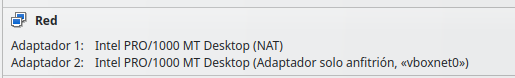
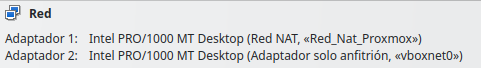
Nuevas modificaciones de la fase 3 implementadas y comienzo de la fase 4 (Se acaba el martes 24 de noviembre)

diff --git a/docs/03-instalacion-proxmox.md b/docs/03-instalacion-proxmox.md
@@ -1,21 +1,58 @@
 # 03-instalacion-proxmox
 
 ## Objetivo
-El objetivo de esta sesion ha sido instalar Proxmox en una maquina Virtual de VirtualBox configurando la Ram, CPU y espacio de disco correctamente y los adaptadores necesarios para la practica (Nat Y Solo anfitrion). Al instalarlo he tenido que configurar el fichero de interfaces para posteriormente conectarme via web a proxmox.
+### Fase 3. Instalación de Proxmox
+
+
+El objetivo de esta sesion ha sido instalar Proxmox en una maquina Virtual de VirtualBox configurando la Ram, CPU y espacio de disco correctamente y los adaptadores necesarios para la practica (Red Nat y Solo anfitrion). Al instalarlo he tenido que configurar el fichero de interfaces para posteriormente conectarme via web a proxmox.
+
+### Fase 4. Configuración base del nodo¶
+
+
+
+
 ## Procedimiento
-Paso 1 - Lo primero que he hecho ha sido crear la maquina virtual pve-selva con la iso de Proxmox, configurando 8 Gib de RAM, 2CPUs y un disco duro de 80 Gib. Una vez creada he activado la opcion Nested VT-x/AMD-V para permitir la virtualizacion anidada.
 
-Paso 2 - En este paso he configurado los dos adaptadores de red, el adaptador 1 es NAT para la salida a internet y el adaptador 2 he creado un adaptador de red solo anfitrion con la ip 192.168.56.1. Por ultimo los he activado en la maquina de Proxmox en Virtualbox
+### Fase 3. Instalación de Proxmox
 
-Paso 3 - Una vez hecho todo lo anterior, he iniciado la instalacion de Proxmox configurando el hostname, la direccion IP de gestion (En este momento ha sido la NAT para poder instalarlo, mas adelante lo cambio), la puerta de enlace y el servidor DNS.
+Paso 1 - Lo primero que he hecho ha sido crear la maquina virtual pve-selva con la iso de Proxmox, configurando 8 GB de RAM, 2CPUs y un disco duro de 80 Gib. Una vez creada he activado la opcion Nested VT-x/AMD-V para permitir la virtualizacion anidada, en paravirtualization interface lo tengo puesto en KVM y el controlador SATA conectado al disco lo he puesto de tipo virtio-scsi.
 
-Paso 4 - Una vez finalizada la instalacion he entrado en el fichero '/etc/network/interfaces' para configurar los bridges vmbr0 y vmbr1, enlazandolos con los adaptadores Nat (vmbr0) y solo anfitrion (vmbr1).
+Paso 2 - En este paso he configurado los dos adaptadores de red, el adaptador 1 es Red NAT (modo promiscuo y dhcp desactivado) para la salida a internet y el adaptador 2 he creado un adaptador de red solo anfitrion (modo promiscuo) con la ip 192.168.56.1. Por ultimo los he activado en la maquina de Proxmox en Virtualbox
+
+Paso 3 - Una vez hecho todo lo anterior, he iniciado la instalacion de Proxmox configurando el hostname, la direccion IP de gestion (En este momento ha sido la de Red NAT para poder instalarlo, mas adelante lo cambio), la puerta de enlace y el servidor DNS.
+
+Paso 4 - Una vez finalizada la instalacion he entrado en el fichero '/etc/network/interfaces' para configurar los bridges vmbr0 y vmbr1, enlazandolos con los adaptadores Red Nat (vmbr0) y solo anfitrion (vmbr1).
 
 Paso 5 - Al aplicar la configuracion anterior, lo ultimo que he hecho ha sido cambiar la IP de gestion a la 192.168.56.5 en el fichero /etc/hosts, ya que antes estaba puesta la ip 10.0.2.15 por la instalacion.
 
 Paso 6 - En este paso poniendo https://192.168.56.5:8006 en el navegador he entrado a mi panel de Proxmox.
 
+### Fase 4. Configuración base del nodo¶
+
+1. Revisar donde se guarda cada cosa
+
+En DataCenter > Storage podemos ver que tenemos local y local-lvm. 
+
+Local es de tipo directorio, este almacenamiento se utiliza para guardar imagenes de ISO de sistemas operativos, plantillas de contenedores y copias de seguridad de las maquinas virtuales.
+
+Local-lvm es de tipo LVM-thin, este almacenamiento se utiliza para almacenar los discos de las maquinas virtuales y almacenamiento de los contenedores.
+
+El espacio de local es de unos 30 GB, 4,3 GB utilizados y unos 24,8 GB disponibles y el espacio de local-lvm es de unos 31,4 GB, no tiene nada utilizado, por lo tanto ese es su espacio disponible.
+
+Son dos almacenamientos diferentes y cada uno sirve para guardar cosas distintas.
+
+Tambien he creado una carpeta que admita backup.
+
+He comprobado que tengo suficiente espacio en el disco de mi ordenador, ya que aunque en Proxmox nos diga que el disco (VDI) tiene 80GB no significa que pueda ocupar hasta esa cantidad si el equipo anfitrion no tiene ese espacio disponible en su disco duro fisico, si ocurre esto nuestro sistema pueda caer y es un riesgo muy importante.
+
+Tambien hay que tener en cuenta que si las copias de seguridad se guardan en el mismo disco duro que usamos para nuestro laboratorio, un fallo en el disco provoca que perdamos los discos de nuestras maquinas virtuales y las copias de seguridad.
+Por eso es recomendable realizar las copias de seguridad en otro disco duro distinto.
+
+
+
 ## Comandos usados
+
+### Fase 3. Instalación de Proxmox
 
 ```bash
 ip -br link
@@ -29,21 +66,36 @@ nano etc/hosts
 hostnamectl
 pveversion
 df -h
+
+ip route replace default via 10.0.2.1 dev vmbr0
+nano /etc/network/interfaces
+ifreload -a
+```
+### Fase 4. Configuración base del nodo¶
+```bash
+pvesm status
+
+df -h
 ```
 
 ## Evidencias
+
+### Fase 3. Instalación de Proxmox
+
 Captura de el panel de Proxmox:
 
 ![Panel Proxmox](/evidencias/capturas-o-salidas/s03-panel-proxmox.png)
 
 
-Captura de recursos RAM, almacenamiento, CPUs y opcion Nested VT-x/AMD-V activada :
+Captura de recursos RAM, almacenamiento, CPUs, opcion Nested VT-x/AMD-V activada y KVM :
 
 ![Ram](/evidencias/capturas-o-salidas/s03-ram.png)
 
 ![CPUs](/evidencias/capturas-o-salidas/s03-CPUs.png)
 
 ![Almacenamiento](/evidencias/capturas-o-salidas/s03-almacenamiento.png)
+
+![KVM](/evidencias/capturas-o-salidas/S03-KVM.png)
 
 
 Captura de adaptadores y su configuracion:
@@ -57,9 +109,32 @@ Salida de comandos pedidos:
 
 ![Salida Comandos](/evidencias/capturas-o-salidas/s03-salida-comandos.png)
 
+### Fase 4. Configuración base del nodo¶
+
+![Salida pvesm](/evidencias/capturas-o-salidas/s04-salida-pvesm.png)
+
+
+![Salida df -h](/evidencias/capturas-o-salidas/s04-salida-df.png)
+
+
+
 ## Incidencias
-En esta sesion no ha habido ninguna incidencia.
+### Fase 3. Instalación de Proxmox
+
+En esta sesion he tenido un problema y es que teniendo toda la red configurada correctamente, mi nodo Proxmox no tenia conexion a internet. 
+Me he dado cuenta de el fallo y lo que pasaba es que el gateway de la Red Nat estaba mal configurado. Lo tenia puesto en la 10.0.2.2 y he tenido que poner la 10.0.2.1, una vez puesta la gateway correcta he comprobado que ya tenia conexion a internet. Se puede ver en los ultimos conmandos utilizados lo que he hecho para cambiarla, en nano /etc/network/interfaces he cambiado 10.0.2.2 en gateway de vmbr0 por 10.0.2.1
+Tambien he actualizado la captura de /etc/network/interfaces ya con la gateway configurada correctamente.
+
+### Fase 4. Configuración base del nodo¶
+
+
 
 ## Conclusion
+### Fase 3. Instalación de Proxmox
+
 En esta sesion he dejado instalado Proxmox en una maquina virtual en Virtualbox con la asignacion de recursos y adaptadores de red correspondientes para su funcionamiento. Por ultimo, he comprobado que se puede acceder al panel web de gestion de Proxmox.
+
+### Fase 4. Configuración base del nodo¶
+
+
 [Volver al indice](../README.md)

diff --git a/docs/00-bitacora.md b/docs/00-bitacora.md
@@ -42,7 +42,7 @@ commit dentro de su entrada de bitacora.
 
 - Objetivo: Instalacion de Proxmox en una Maquina Virtual en Virtualbox
 - Acciones realizadas: He tenido que instalar Proxmox con la configuracion y adaptadores de red correspondientes. Una vez instalado he modificado el archivo de configuracion de las interfaces creando dos puentes y enlazandolos a los dos adaptadores de red. Por ultimo he comprobado que me he podido conectar al panel web de Proxmox.
-- Decisiones y motivos: Las decisiones que he tomado han sido la asignacion de recursos necesarios para el correcto funcionamiento, dos adaptadores de red (nat y solo anfitrion) y por ultimo he configurado algunas de las IP que propuse en la sesion 02.
+- Decisiones y motivos: Las decisiones que he tomado han sido la asignacion de recursos necesarios para el correcto funcionamiento, dos adaptadores de red (Red NAT y solo anfitrion) y por ultimo he configurado algunas de las IP que propuse en la sesion 02.
 - Pruebas y resultados: Aqui la unica prueba que he hecho ha sido poder conectarme al panel web de Proxmox desde mi equipo anfitrion con la IP configurada de la red solo anfitrion.
 - Documentos o evidencias: [Instalacion de Proxmox](/docs/03-instalacion-proxmox.md)
 - Incidencias y solucion o estado pendiente: En esta sesion no he tenido ninguna incidencia

diff --git a/docs/02-diagrama-red.md b/docs/02-diagrama-red.md
@@ -15,7 +15,7 @@ Esto tambien es importante porque nos ayuda a tener toda nuestro diseño de red 
 | Bridge de Proxmox 1 |vmbr0 |10.0.2.15/24 |Salida de VMs a internet |Bridge Proxmox |
 | Bridge de Proxmox 2 |vmbr1 |192.168.56.5/24 |Conexion ente Vms y gestion del nodo |Bridge Proxmox |
 | Red de laboratorio |Laboratorio Proxmox |192.168.56.0/24 |Red principal de el Laboratrio |Red VirtualBox |
-| Gateway |vmbr1, vmbr0 |192.168.56.5/24, 10.0.2.2/24 |Salida de maquinas virtuales al exterior |Gateway salida a NAT |
+| Gateway |vmbr1, vmbr0 |192.168.56.5/24, 10.0.2.1/24 |Salida de maquinas virtuales al exterior |Gateway salida a NAT |
 | DNS 1 |Google |8.8.8.8 |Servidor DNS para resolver nombres de dominio |Servidor DNS |
 | DNS 2 |DNS NAT|10.0.2.3 |Servidor DNS para poder salir a internet |Servidor DNS |
 | Puerto 1 |TCP 8006 | |Administración web de Proxmox  |Puerto administracion web |

diff --git a/docs/00-ficha-inicial.md b/docs/00-ficha-inicial.md
@@ -5,7 +5,7 @@
 | Identificador del alumno | David-git134 |
 | URL GitHub | https://github.com/David-git134/pi-proxmox-selva-lopez-david.git |
 | Acceso docente comprobado | PENDIENTE |
-| Modalidad fisica o virtualizada | virtualizada |
+| Modalidad fisica o virtualizada | Virtualizada |
 | Recursos conocidos | CPU: Intel(R) Pentium(R) CPU G4560 @ 3.50GHz, RAM: CRUCIAL 8GB DDR4 2400 MT/s, DISCO: SATA 447 GB SSD |
 | Nombre del nodo | pve-selva |
 | Servicio ASO previsto | PENDIENTE |
